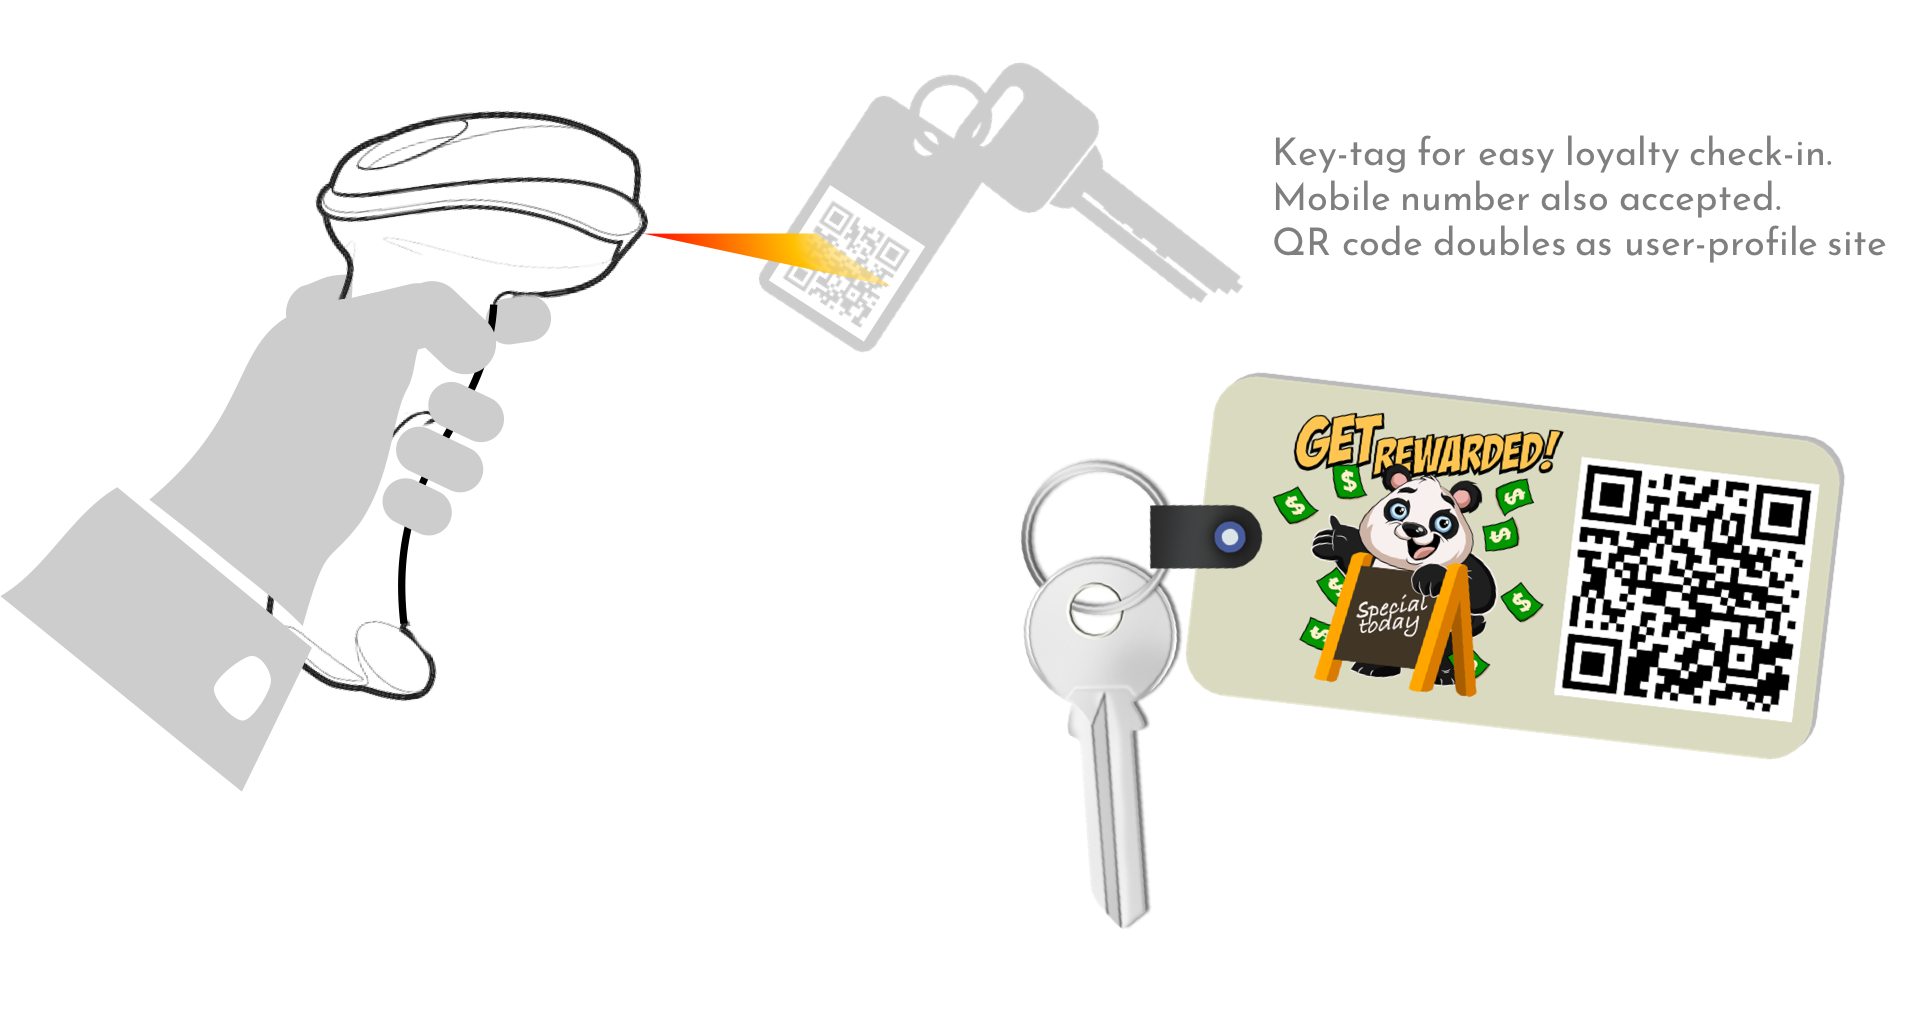
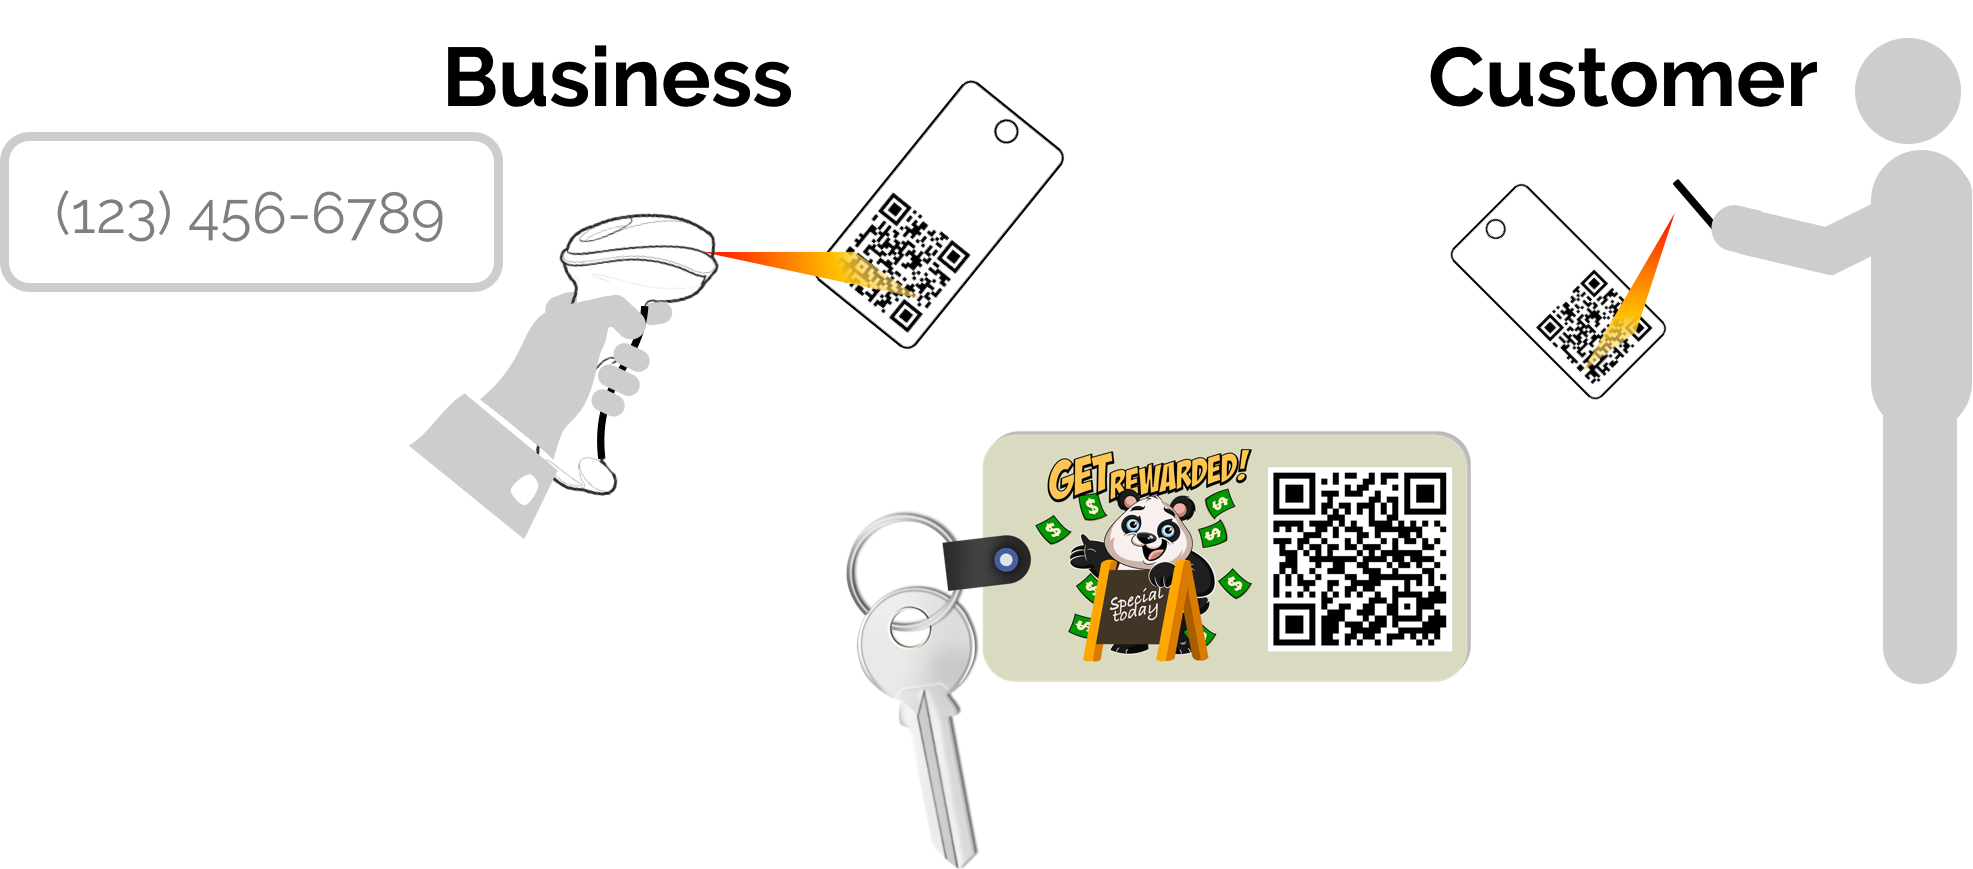
Update

diff --git a/app/app_sitelette/sitefiles/pages/content_index.html b/app/app_sitelette/sitefiles/pages/content_index.html
@@ -10,16 +10,17 @@
             <li> <a class="page-scroll p-r-30 p-r-15" href="#dynamicmenus">Dynamic Menus </a> </li>
             <li> <a class="page-scroll p-r-30 p-r-15" href="#signage">Interactive Signage </a> </li>
             <li> Happy Hour </li>
-            <li> <a class="page-scroll p-r-30 p-r-15" href="#unifiedcheckin">Univeral Checkin</a> </li>
-            <li> Loyalty </li>
-            <li> Order History </li>
+            <li> <a class="page-scroll p-r-30 p-r-15" href="#unifiedcheckin">Univeral Loyalty</a> </li>
             <li> <a class="page-scroll p-r-30 p-r-15" href="#receiptcoupons">Personal Coupons</a> </li>
             <li> <a class="page-scroll p-r-30 p-r-15" href="#tableorders">Table orders </a> </li>
+            <li> <a class="page-scroll p-r-30 p-r-15" href="#labelprinting">Label Stickers </a> </li>
             <li> Online Ordering (Mobile/Web)</li>
             <li>  <a class="page-scroll p-r-30 p-r-15" href="#papercardcoupons">Email Marketing  </a>  </li>
             <li>  <a class="page-scroll p-r-30 p-r-15" href="#reporting">Reporting </a>  </li>
             <li> Drive-thru Self Service </li>
             <li> Many designs </li>
+            <li> Cloud API </li>
+
           </ul>
           <div class="text-center main_heading"> So you can save more, sell more and earn more </div>
         </div>
@@ -153,7 +154,7 @@
 <!--      todo -->
 
 
-<!-- FEATURE: UNIVERSAL CHECKIN -->
+<!-- FEATURE: UNIVERSAL LOYALTY -->
 <section id="unifiedcheckin" class="white_background">
   <div class="container-fluid">
     <div class="row">
@@ -191,10 +192,6 @@
     </div>
   </div>
 </section>
-
-
-<!-- FEATURE: LOYALTY -->
-<!-- FEATURE: ORDER HISTORY -->
 
 
 <!-- FEATURE: INDIVIDUAL COUPONS -->
